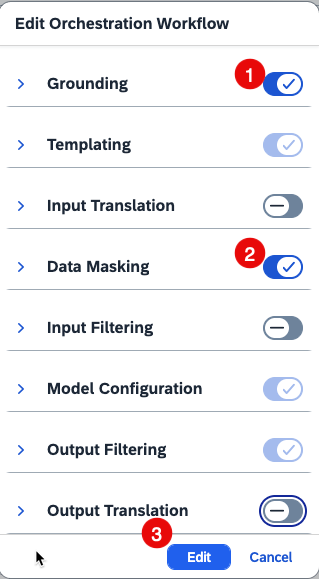
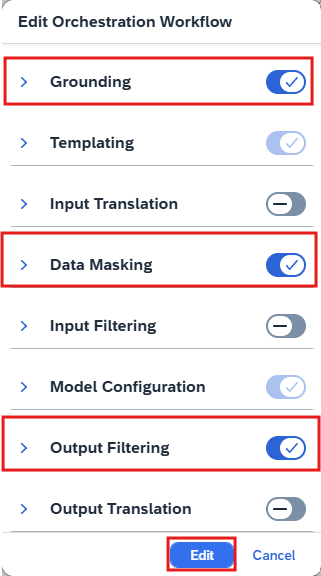
incorporate editing comments from mission validation team

diff --git a/develop/build-orchestration.md b/develop/build-orchestration.md
@@ -3,11 +3,15 @@
 The orchestration pipeline consists of several steps, including grounding, prompt templating, data masking, content filtering, input and output translation, and model configuration. Among these, only the **Templating** and **Model Configuration** steps are mandatory. The inclusion of other steps depends on your specific use case. You can easily enable or disable optional steps using the provided toggle switches.
 
 
-1. Choose **Generative AI Hub** -> **Orchestration** -> **Edit Workflow**. 
+1. Choose **Generative AI Hub** -> **Orchestration** -> **Create**. 
+
+    ![create orchestration 00](img/buildorch00.png)
+
+2. Choose **Edit Workflow**. 
 
     ![create orchestration 01](img/buildorch01.png)
 
-3. Turn on both **Grounding** and **Data Masking**, turn off the other steps, and choose **Edit**. 
+3. Turn on both **Grounding**, **Data Masking**, and **Output Filtering**, turn off the other steps, and choose **Edit**. 
 
     ![create orchestration 02](img/buildorch02.png)
 

diff --git a/setup/create-object-store.md b/setup/create-object-store.md
@@ -14,7 +14,7 @@
 
     - Service: **Object Store**
     - Plan: **standard**
-    - Runtime Environment: **Cloud Foundary**
+    - Runtime Environment: **Cloud Foundry**
     - Space: **dev**
     - Instance Name: **object-store** 
 
@@ -57,9 +57,14 @@
     aws s3 cp <source> <target> [--options]
     ```
     > **s3 cp Example**  
-    > The following example copies a local file from your current working directory to the Amazon S3 bucket with the s3 cp command.
+    > The following example copies a local file from your current working directory to the Amazon S3 bucket with the s3 cp command. <your-bucket-name> is the value of “bucket” in the service key. 
     > ```
-    > aws s3 cp filename.txt s3://amzn-s3-demo-bucket
+    > aws s3 cp filename.txt s3://your-bucket-name
     > ```
 
     ![](img/objectstore10.png)
+
+5. Verify the files uploaded into the S3 bucket. 
+    ```
+    aws s3 ls s3://your-bucket-name
+    ```

diff --git a/setup/setup-grounding.md b/setup/setup-grounding.md
@@ -35,7 +35,7 @@
     - Name: **s3-grounding**
     - Secret: Refer to the [SAP Help Portal](https://help.sap.com/docs/sap-ai-core/sap-ai-core-service-guide/grounding-generic-secrets-for-aws-s3-15eb50b05c3a4394ba86677209be8f40) for more details about the generic secret for AWS S3. 
     >**Generic Secret Example**  
-    >The generic secret values are copied from Object Store service key and must be [Base64-encoded](https://www.base64decode.org/). 
+    >The generic secret values are copied from Object Store service key and must be Base64-encoded. You can run "echo -n 'text' | base64" to generate base64 encoded string from a terminal. 
     >```json
     >{
     >  "url": "aHR0cHM6Ly9zMy5ldS1jZW50cmFsLTEuYW1hem9uEXAMPLE==",
